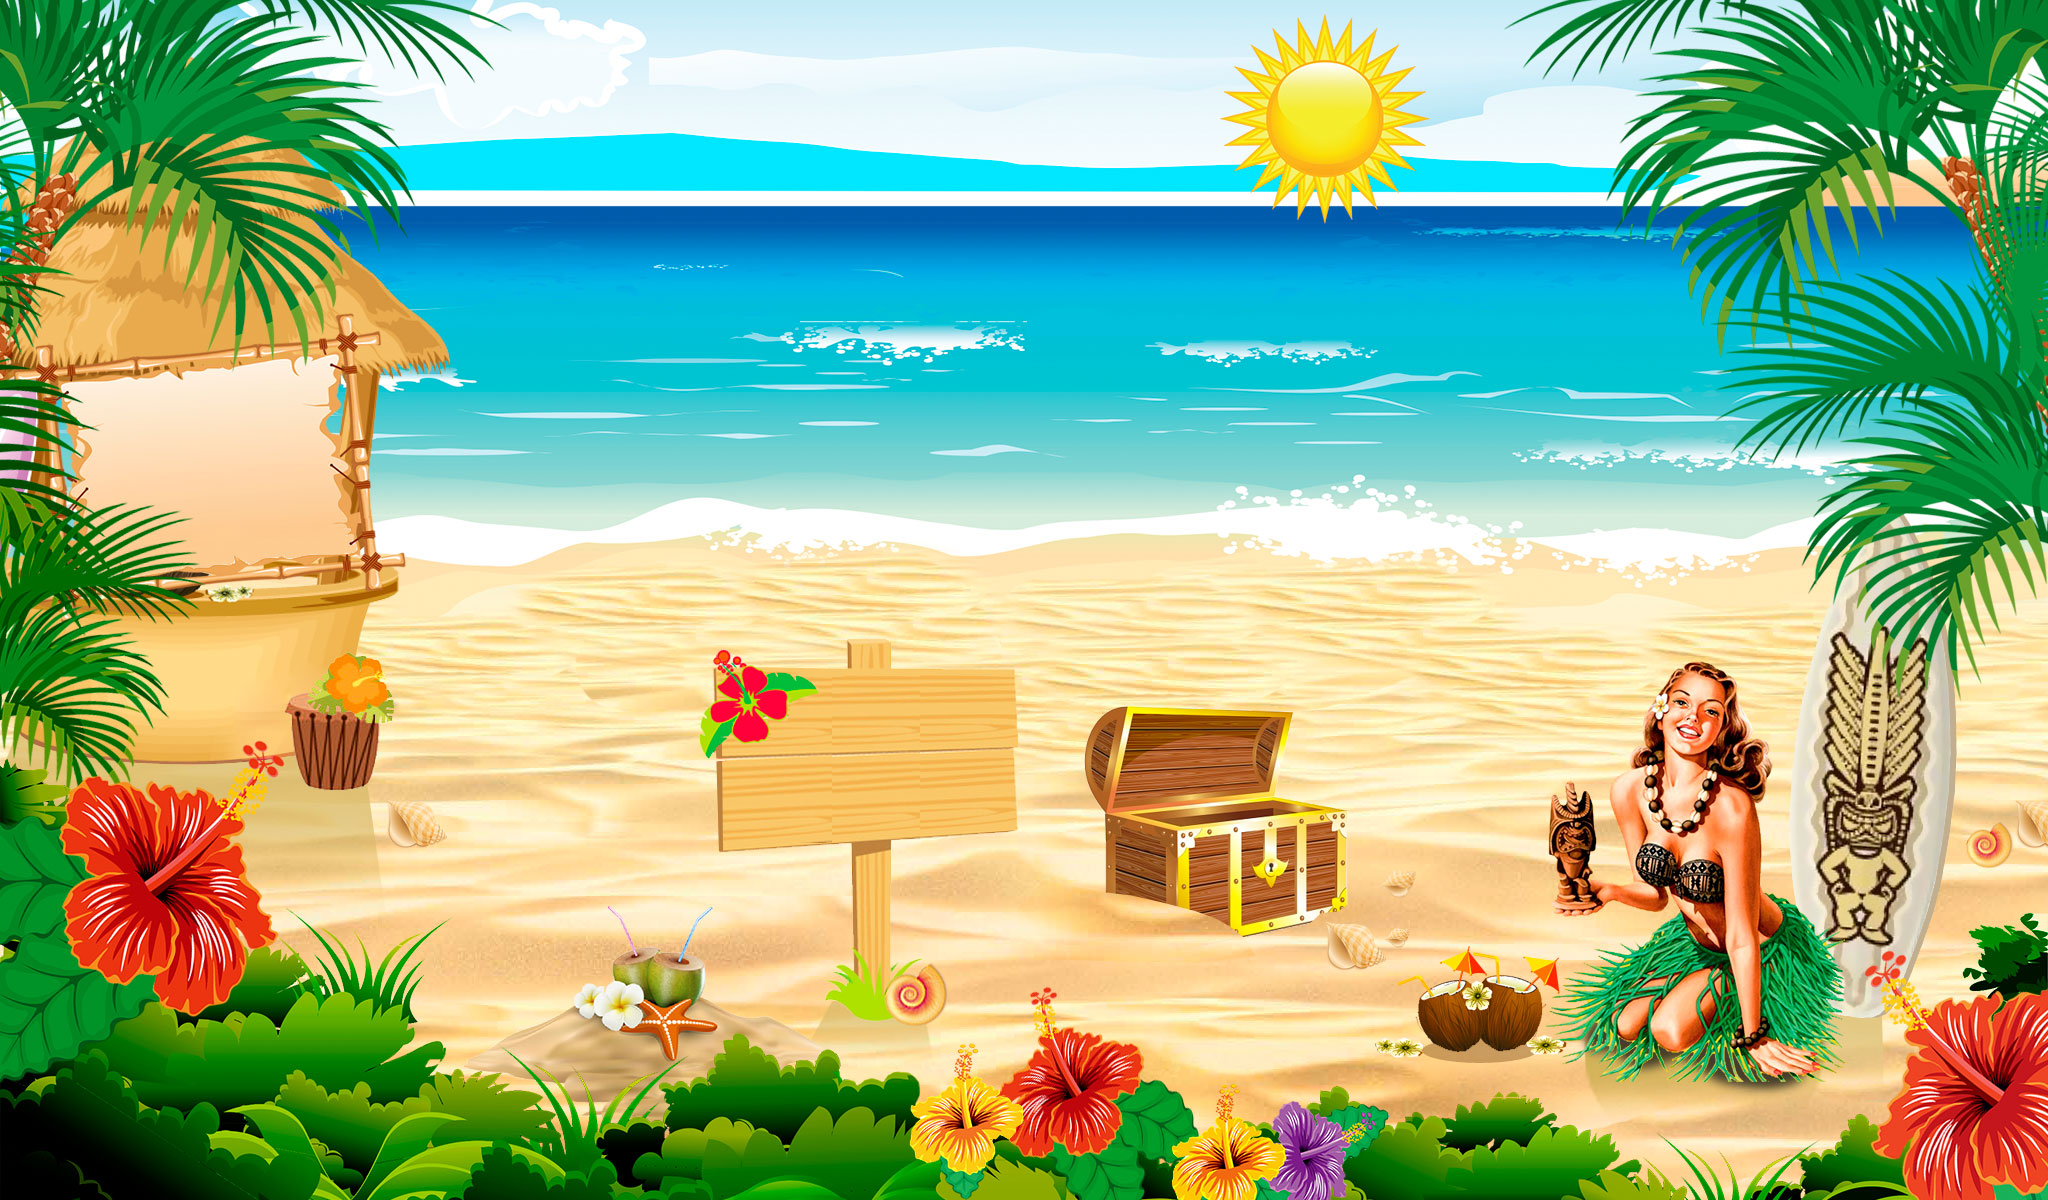
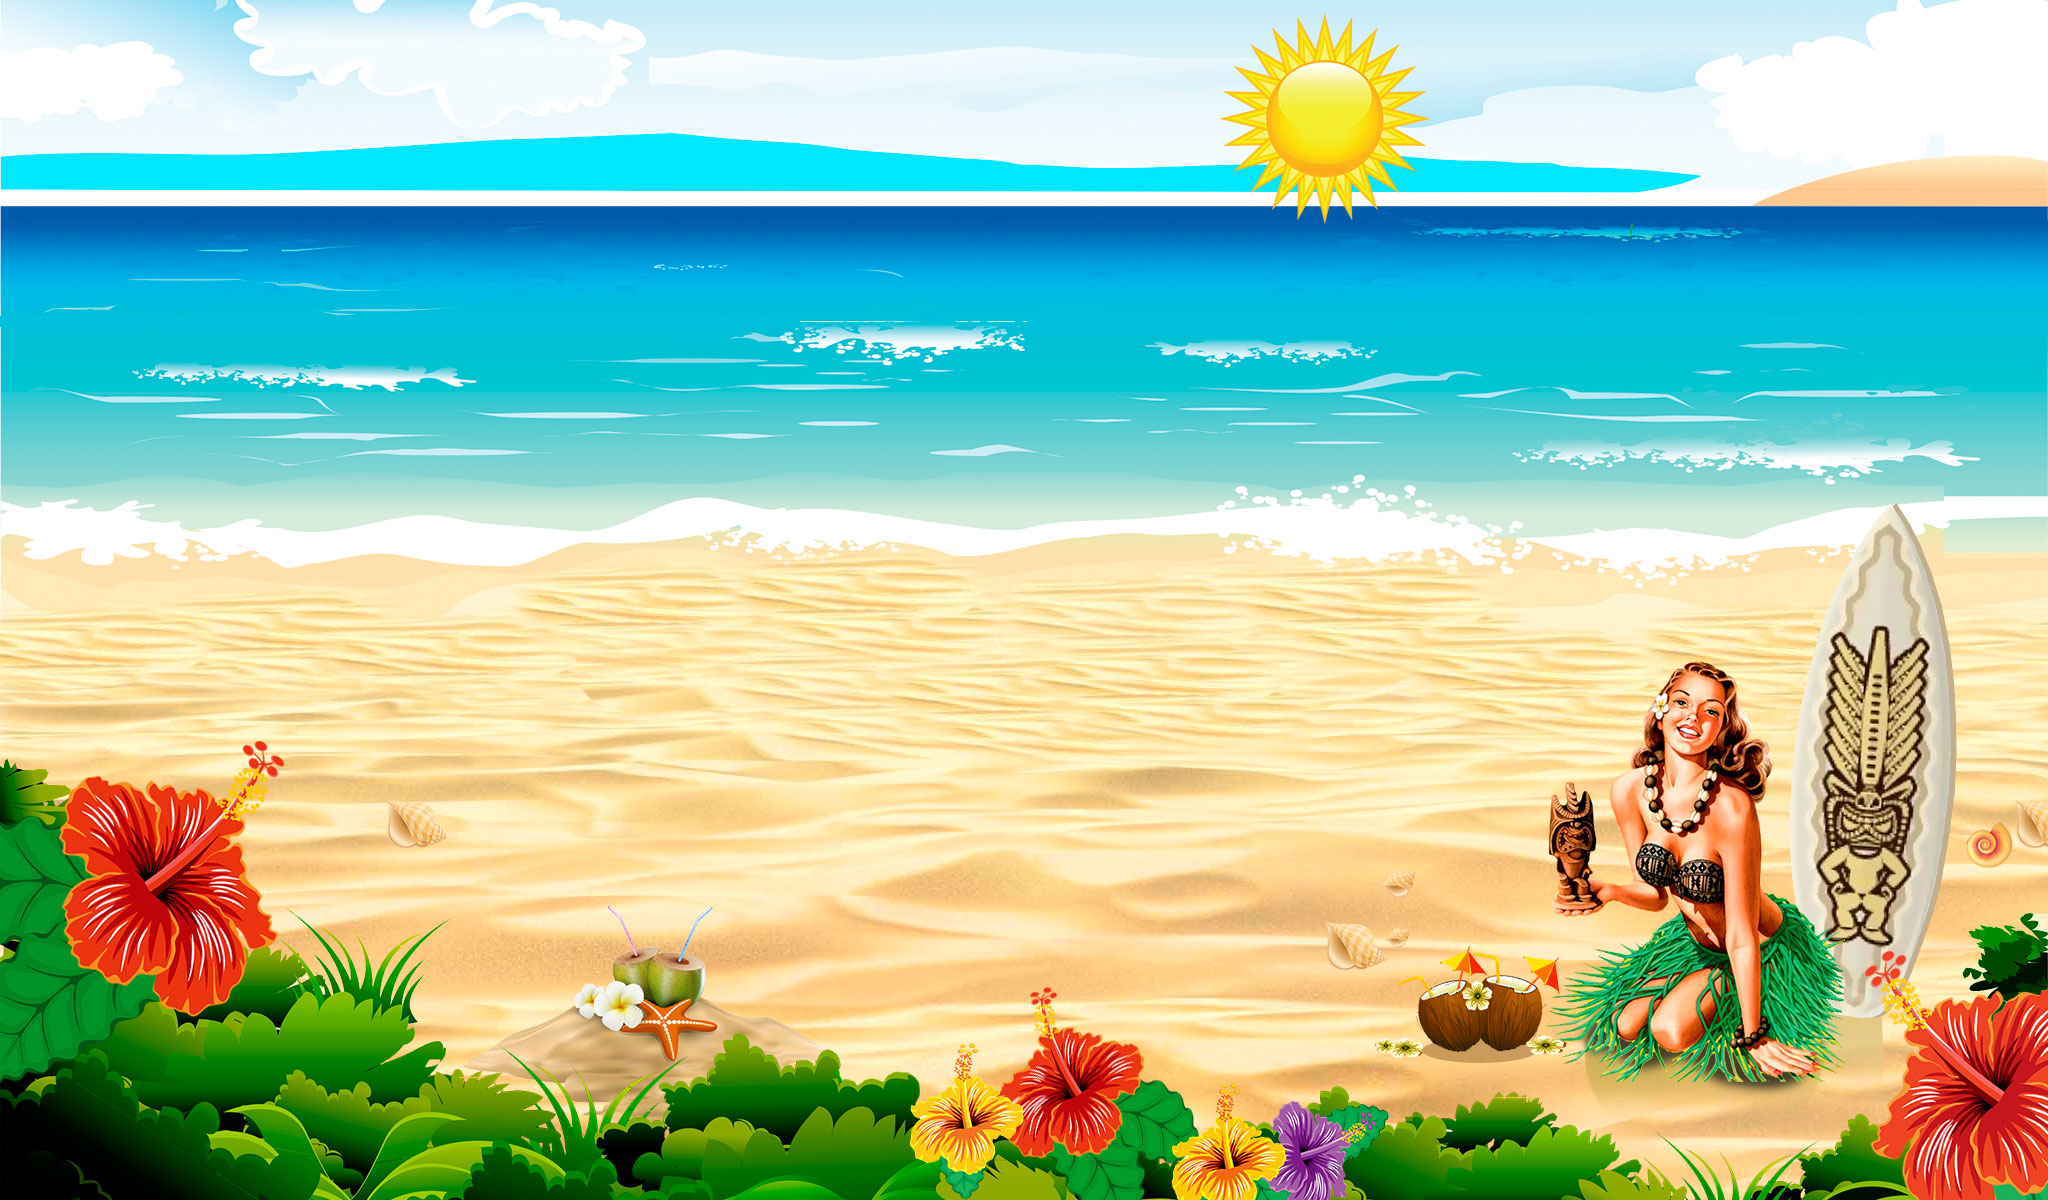
init

diff --git a/js/app.js b/js/app.js
@@ -1,19 +1,29 @@
 function Papaya(canvas,textCanvas,width,height){
 	this.canvas = document.getElementById(canvas);
 	this.context = this.canvas.getContext('2d');
-	this.canvasText = document.getElementById(textCanvas);
-	this.contextText = this.canvasText.getContext('2d');
+
+
 	this.sceenObject = {};
 	this.sceenWidth = width;
 	this.sceenHeight = height;
 	this.k = innerWidth/width;
 	this.menuArr = [];
+	
+	this.source;
+	this.arrObjName = [];
+  this.images = {};
+  this.loadedImages = 0;
+  this.numImages = 0;
+	window.requestAnimFrame = (function(callback) {
+    return window.requestAnimationFrame || window.webkitRequestAnimationFrame || window.mozRequestAnimationFrame || window.oRequestAnimationFrame || window.msRequestAnimationFrame ||
+		function(callback) {
+			window.setTimeout(callback, 1000 / 4);
+    };
+   })();
 };
 Papaya.prototype.canvasSetSize = function(){
-		this.canvas.width = window.innerWidth;
-		this.canvas.height = window.innerHeight-5;
-		this.canvasText.width = window.innerWidth;
-		this.canvasText.height = window.innerHeight-5;
+		this.canvas.width = this.sceenWidth*this.k;
+		this.canvas.height = this.sceenHeight*this.k;
 };
 Papaya.prototype.sorting = function(){
 	var self = this;
@@ -28,38 +38,28 @@ Papaya.prototype.sorting = function(){
 	return sorted;
 }
 Papaya.prototype.loadImages = function(callback) {
-	var source;
-	var arrObjName = [];
-  var images = {};
-  var loadedImages = 0;
-  var numImages = 0;
-	
+	var self = this;
 	for(var objName in this.sceenObject){
-		arrObjName.push(objName);
+		self.arrObjName.push(objName);
 	}
    for(var name in this.sceenObject) {
-    images[name] = new Image();
-    images[name].onload = function() {
-      if(++loadedImages >= arrObjName.length) {
-        callback(images);
+    self.images[name] = new Image();
+    self.images[name].onload = function() {
+      if(++self.loadedImages >= self.arrObjName.length) {
+        callback();
 			}
 		};
-		images[name].src = this.sceenObject[name].src;
+		self.images[name].src = self.sceenObject[name].src;
 	}
 };
 Papaya.prototype.imageDraw = function(name){
-	var self = this;
-	var imageObj = new Image();
-      imageObj.onload = function() {
-        		self.context.drawImage(
-									imageObj, 
-									self.sceenObject[name].posX, 
-									self.sceenObject[name].posY, 
-									self.sceenObject[name].width, 
-									self.sceenObject[name].height);
-      };
-    imageObj.src = self.sceenObject[name].src;
-
+		this.context.drawImage(
+									this.images[name], 
+									this.sceenObject[name].posX, 
+									this.sceenObject[name].posY, 
+									this.sceenObject[name].width, 
+									this.sceenObject[name].height);
+   
 }
 
 Papaya.prototype.sceenObjectGet = function(){
@@ -79,39 +79,74 @@ Papaya.prototype.sceenObjectAdd = function(obj){
 	
 };
 Papaya.prototype.menuAdd = function(name,x,y,text){
-    this.contextText.font = 'bold '+14*this.k+'pt Calibri';
-		this.contextText.fillText(text, this.sceenObject[name].posX+x*this.k, this.sceenObject[name].posY+y*this.k);
+    this.context.font = 'bold '+14*this.k+'pt Calibri';
+		this.context.fillText(text, this.sceenObject[name].posX+x*this.k, this.sceenObject[name].posY+y*this.k);
 		this.menuArr.push(name);
 }
 Papaya.prototype.menuEvent = function(event,callback){
 	var self = this;
-	var rect = self.canvasText.getBoundingClientRect();
+	var rect = self.canvas.getBoundingClientRect();
 	var x = event.clientX;
 	var y = event.clientY;
 	var objX;
 	var objY;
 	var objYend;
 	var objXend;
+	document.body.style.cursor = '';
 	for(var i = 0; self.menuArr.length>i;i++){
 		var objX = self.sceenObject[self.menuArr[i]].posX+10;
-		var objY = self.sceenObject[self.menuArr[i]].posY+10;
-		var objYend = objY + self.sceenObject[self.menuArr[i]].height-70;
+		var objY = self.sceenObject[self.menuArr[i]].posY;
+		var objYend = objY + self.sceenObject[self.menuArr[i]].height-120;
 		var objXend = objX + self.sceenObject[self.menuArr[i]].width-40;
-			if((x>=objX && x<=objXend) && (y>=objY && y<=objYend))
+			
+			if((x>=objX && x<=objXend) && (y>=objY && y<=objYend)){
 				callback(self.sceenObject[self.menuArr[i]]);
+				document.body.style.cursor = 'pointer';
+			}
 	}
 	
 				
 };
+Papaya.prototype.boatAnim = function (){
+	var self = this;
+	self.sceenObject['boat'].posX-=0.5;
+		if(self.sceenObject['boat'].posX<0)
+			self.sceenObject['boat'].posX = self.canvas.width;
+	
+
+}
+Papaya.prototype.menuAnim = function(name){
+var self = this;
+	self.sceenObject[name].posX-=0.5;
+		if(self.sceenObject[name].posX<0)
+			self.sceenObject[name].posX = self.canvas.width;
+}
+Papaya.prototype.animation = function(startTime){
+	var self = this;
+	var time = (new Date()).getTime() - startTime;
+	this.context.clearRect(self.sceenObject['boat'].posX , self.sceenObject['boat'].posY, self.sceenObject['boat'].width, self.sceenObject['boat'].height);
+	
+	self.imageDraw('bg-sceen');
+	this.imageDraw('boat');
+	this.boatAnim();
+
+	requestAnimFrame(function() {
+          self.animation(startTime);
+        });
+}
 Papaya.prototype.run = function(){
 		var self = this;
 		this.canvasSetSize();
-		self.canvasText.onclick=function(event){
+		self.canvas.onclick=function(event){
 			self.menuEvent(event,function(element){
-				console.log(element);
 				window.location.href=element.url;
 			});
-		}
+		};
+		
+		self.canvas.onmousemove = function(event){
+			self.menuEvent(event,function(element){
+			});
+		};
 		
 		self.sceenObjectAdd({
 													name:'totem-about',
@@ -142,6 +177,26 @@ Papaya.prototype.run = function(){
 													posY:350,
 													posX:680,
 													weight:1,
+													});													
+		self.sceenObjectAdd({
+													name:'totem-galery',
+													url:'/#4',
+													src:'/images/totem-galery.png',
+													width:118,
+													height:306,
+													posY:340,
+													posX:780,
+													weight:1,
+													});	
+
+		self.sceenObjectAdd({
+													name:'boat',
+													src:'/images/boat.png',
+													width:90,
+													height:83,
+													posY:200,
+													posX:680,
+													weight:1,
 													});														
 													
 		self.sceenObjectAdd({
@@ -153,17 +208,39 @@ Papaya.prototype.run = function(){
 													posX:0,
 													posY:0});
 		
-		papaya.imageDraw('bg-sceen');
-		papaya.imageDraw('totem-about');
-		papaya.imageDraw('totem-bar-and-cuhnya');
-		papaya.imageDraw('totem-events');
+
+		
+		
 
 
 		
-	this.menuAdd("totem-about",62,208,"О БАРЕ");
-	this.menuAdd("totem-bar-and-cuhnya",62,180,"БАР И");
-	this.menuAdd("totem-bar-and-cuhnya",58,200,"КУХНЯ");
-	this.menuAdd("totem-events",43,163,"МЕРО-");
-	this.menuAdd("totem-events",30,180,"ПРИЯТИЯ");
+
+	
+//***********************************************************//
+  //this.imageDraw('boat');
+	//self.imageDraw('totem-about');
+	//self.imageDraw('totem-bar-and-cuhnya');
+	//self.imageDraw('totem-events');
+	//self.imageDraw('totem-galery');
+	//self.imageDraw('bg-sceen');
+	self.loadImages(function(){
+		self.animation((new Date()).getTime()); 
+
+			//this.imageDraw('boat');
+			self.imageDraw('totem-about');
+			self.imageDraw('totem-bar-and-cuhnya');
+			self.imageDraw('totem-galery');
+			self.imageDraw('totem-events');
+			
+			self.menuAdd("totem-about",62,208,"О БАРЕ");
+			self.menuAdd("totem-bar-and-cuhnya",62,180,"БАР И");
+			self.menuAdd("totem-bar-and-cuhnya",58,200,"КУХНЯ");
+			self.menuAdd("totem-events",43,163,"МЕРО-");
+			self.menuAdd("totem-events",30,180,"ПРИЯТИЯ");
+			self.menuAdd("totem-galery",30,190,"ГАЛЕРЕЯ");	
+		
+	 });
+	
+	
 };
 

diff --git a/index.html b/index.html
@@ -18,13 +18,9 @@
 		<!--start component top-block-on-main-page-->
 			<canvas id="canvas">
 			</canvas>
-			<canvas id="textCanvas">
-			</canvas>
 		<script>
 		var papaya = new Papaya('canvas','textCanvas',2048,1200);				
 		papaya.run();
-
-
 		
 </script>
 		<!--end component top-block-on-main-page-->
